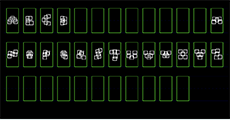
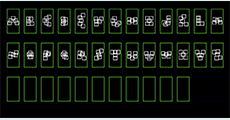
//completed all of the letters, i will start work on the numbers later

diff --git a/letters.js b/letters.js
@@ -7,19 +7,19 @@ const alphabet = {
   "A": {
     "size": 30,
     "rx1": 35,
-    "ry1": 65,
+    "ry1": 60,
 
-    "rx2": 20,
+    "rx2": 15,
     "ry2": 80,
 
-    "rx3": 50,
+    "rx3": 55,
     "ry3": 80,
 
-    "rx4": 10,
-    "ry4": 96,
+    "rx4": 5,
+    "ry4": 100,
 
-    "rx5": 60,
-    "ry5": 95
+    "rx5": 65,
+    "ry5": 100
   },
   "B": {
     "size": 30,
@@ -73,44 +73,140 @@ const alphabet = {
     "ry5": 100
   },
   "E": {
-    "size": 50,
-    "offsetx": 15,
-    "offsety": 0
+    "size": 30,
+    "rx1": 35,
+    "ry1": 80,
+
+    "rx2": 25,
+    "ry2": 55,
+
+    "rx3": 50,
+    "ry3": 35,
+
+    "rx4": 25,
+    "ry4": 105,
+
+    "rx5": 50,
+    "ry5": 125
   },
   "F": {
-    "size": 50,
-    "offsetx": 15,
-    "offsety": 0
+    "size": 30,
+    "rx1": 15,
+    "ry1": 65,
+
+    "rx2": 60,
+    "ry2": 65,
+
+    "rx3": 20,
+    "ry3": 85,
+
+    "rx4": 20,
+    "ry4": 110,
+
+    "rx5": 45,
+    "ry5": 85
   },
   "G": {
-    "size": 50,
-    "offsetx": 15,
-    "offsety": 0
+    "size": 30,
+    "rx1": 15,
+    "ry1": 80,
+
+    "rx2": 30,
+    "ry2": 60,
+
+    "rx3": 65,
+    "ry3": 100,
+
+    "rx4": 25,
+    "ry4": 105,
+
+    "rx5": 50,
+    "ry5": 115
   },
   "H": {
-    "size": 50,
-    "offsetx": 15,
-    "offsety": 0
+    "size": 30,
+    "rx1": 35,
+    "ry1": 80,
+
+    "rx2": 10,
+    "ry2": 70,
+
+    "rx3": 60,
+    "ry3": 70,
+
+    "rx4": 10,
+    "ry4": 95,
+
+    "rx5": 60,
+    "ry5": 95
   },
   "I": {
-    "size": 50,
-    "offsetx": 15,
-    "offsety": 0
+    "size": 30,
+    "rx1": 35,
+    "ry1": 80,
+
+    "rx2": 20,
+    "ry2": 60,
+
+    "rx3": 50,
+    "ry3": 60,
+
+    "rx4": 20,
+    "ry4": 105,
+
+    "rx5": 50,
+    "ry5": 105
   },
   "J": {
-    "size": 50,
-    "offsetx": 15,
-    "offsety": 0
+    "size": 30,
+    "rx1": 55,
+    "ry1": 80,
+
+    "rx2": 15,
+    "ry2": 95,
+
+    "rx3": 55,
+    "ry3": 55,
+
+    "rx4": 30,
+    "ry4": 110,
+
+    "rx5": 50,
+    "ry5": 100
   },
   "K": {
-    "size": 50,
-    "offsetx": 15,
-    "offsety": 0
+    "size": 30,
+    "rx1": 30,
+    "ry1": 85,
+
+    "rx2": 15,
+    "ry2": 60,
+
+    "rx3": 40,
+    "ry3": 45,
+
+    "rx4": 15,
+    "ry4": 110,
+
+    "rx5": 60,
+    "ry5": 110
   },
   "L": {
-    "size": 50,
-    "offsetx": 15,
-    "offsety": 0
+    "size": 30,
+    "rx1": 20,
+    "ry1": 65,
+
+    "rx2": 20,
+    "ry2": 55,
+
+    "rx3": 20,
+    "ry3": 80,
+
+    "rx4": 20,
+    "ry4": 105,
+
+    "rx5": 50,
+    "ry5": 105
   },
   "M": {
     "size": 30,
@@ -222,10 +318,10 @@ const alphabet = {
     "rx2": 35,
     "ry2": 60,
 
-    "rx3": 55,
+    "rx3": 60,
     "ry3": 50,
 
-    "rx4": 25,
+    "rx4": 20,
     "ry4": 110,
 
     "rx5": 45,
@@ -237,16 +333,16 @@ const alphabet = {
     "ry1": 60,
 
     "rx2": 10,
-    "ry2": 65,
+    "ry2": 60,
 
     "rx3": 60,
-    "ry3": 65,
+    "ry3": 60,
 
     "rx4": 35,
-    "ry4": 120,
+    "ry4": 110,
 
-    "rx5": 40,
-    "ry5": 100
+    "rx5": 35,
+    "ry5": 85
   },
   "U": {
     "size": 30,
@@ -293,10 +389,10 @@ const alphabet = {
     "rx3": 60,
     "ry3": 70,
 
-    "rx4": 25,
+    "rx4": 15,
     "ry4": 95,
 
-    "rx5": 45,
+    "rx5": 55,
     "ry5": 95
   },
   "X": {

diff --git a/README.md b/README.md
@@ -12,6 +12,8 @@
 
 //finished most of the letters, the missing ones still need some "redesign" work, i will start work on them while i put the numbers in.
 
+//completed all of the letters, i will start work on the numbers later
+
 The eleven parameters per letter:
   * `size` : size of rectegle
   * "rx1": x offset of the no.1 rectegle relative to the first one
